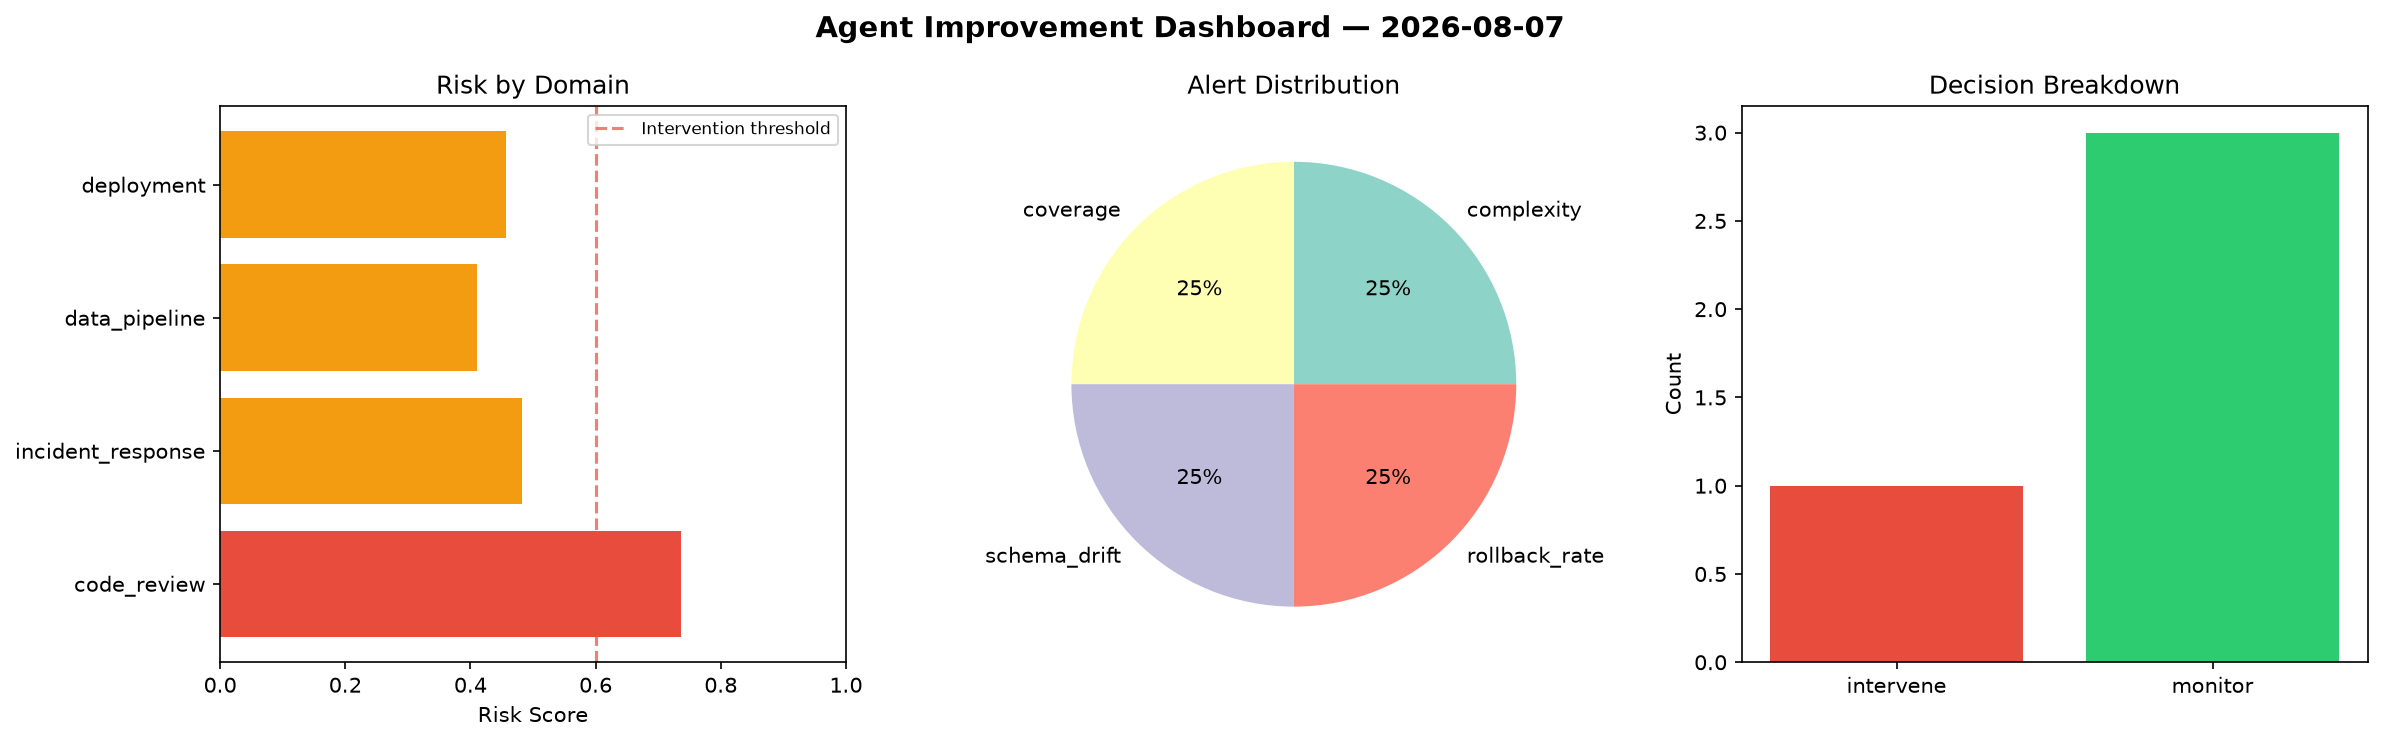
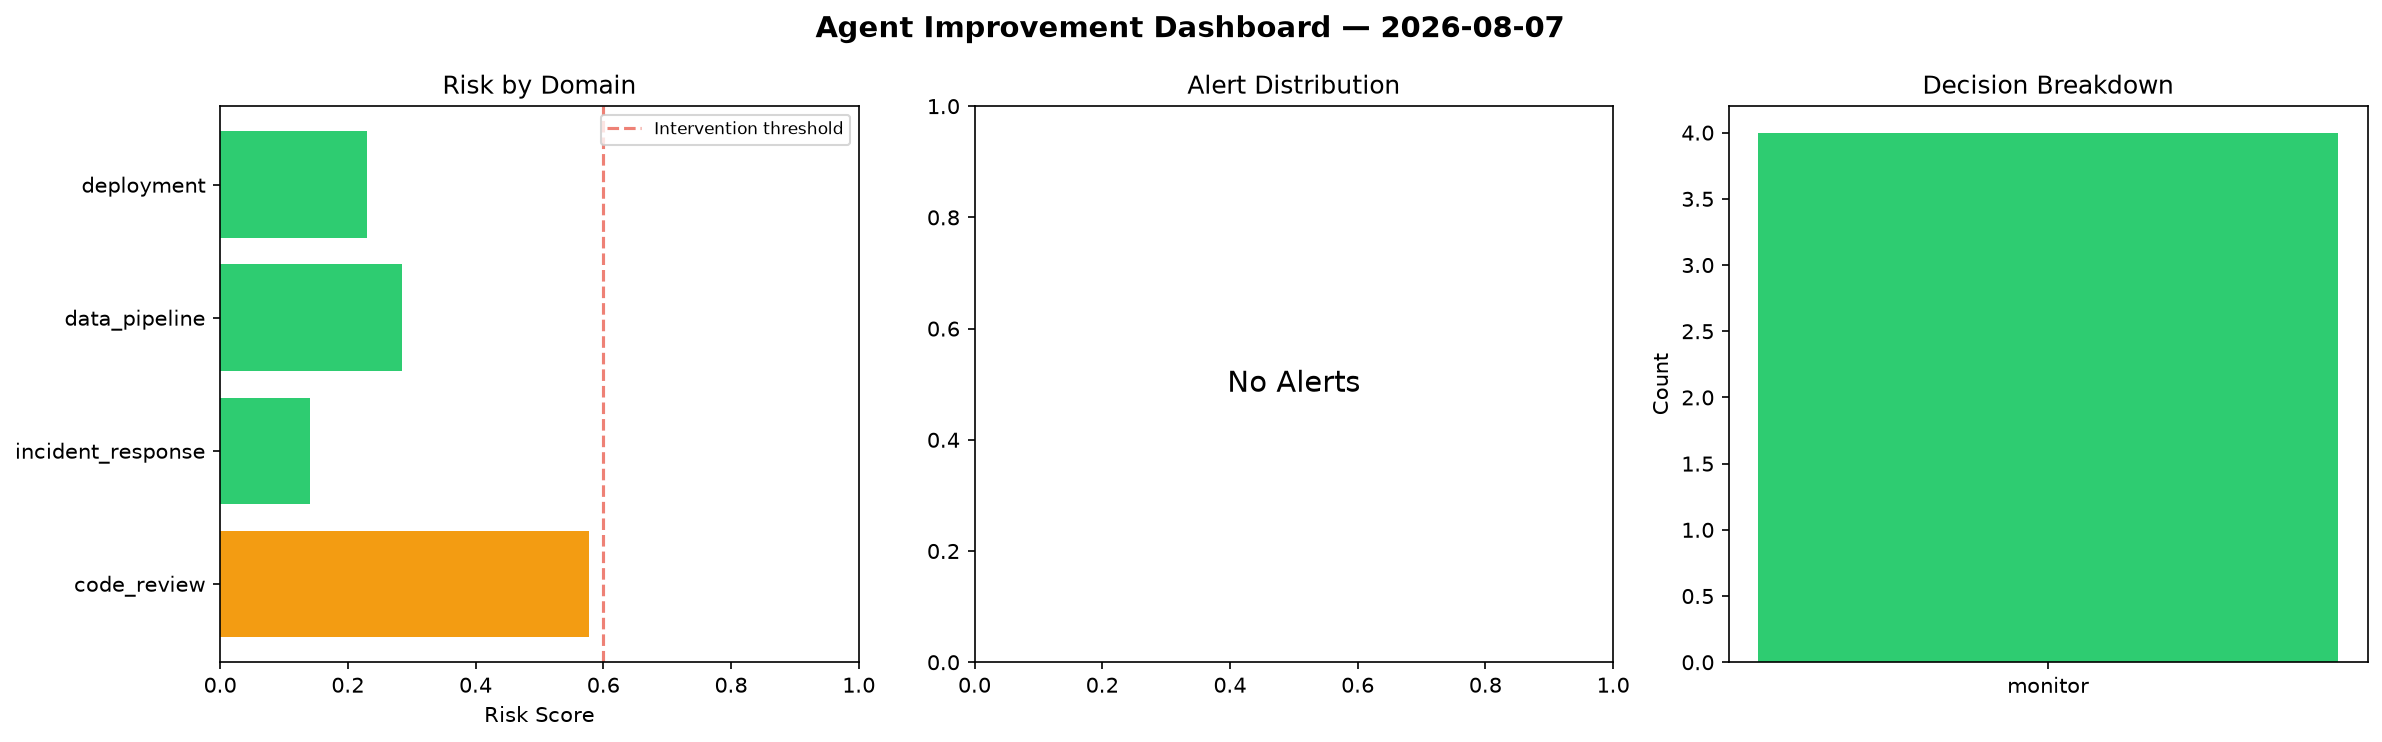
agent-improvement: daily cycle 2026-08-07T04:31

diff --git a/logs/2026-08-07.md b/logs/2026-08-07.md
@@ -1,6 +1,6 @@
 # Agent Improvement Report — 2026-08-07
 
-**Cycle ID:** `1b770a73` | **Avg Risk:** 0.5212 | **Interventions:** 1/4
+**Cycle ID:** `46667974` | **Avg Risk:** 0.3084 | **Interventions:** 0/4
 
 ![Dashboard](2026-08-07_dashboard.png)
 
@@ -10,18 +10,18 @@
 
 | Domain | Risk Score | Decision | Alerts |
 |--------|-----------|----------|--------|
-| code_review | 0.7364 | intervene | complexity, coverage |
-| incident_response | 0.4818 | monitor | none |
-| data_pipeline | 0.4104 | monitor | schema_drift |
-| deployment | 0.4563 | monitor | rollback_rate |
+| code_review | 0.5782 | monitor | none |
+| incident_response | 0.1409 | monitor | none |
+| data_pipeline | 0.2849 | monitor | none |
+| deployment | 0.2295 | monitor | none |
 
 ## Delta vs Yesterday
 
 | Domain | Today | Yesterday | Change |
 |--------|-------|-----------|--------|
-| code_review | 0.7364 | 0.3114 | 📈 136.5% |
-| incident_response | 0.4818 | 0.6364 | 📉 -24.3% |
-| data_pipeline | 0.4104 | 0.5749 | 📉 -28.6% |
-| deployment | 0.4563 | 0.4017 | 📈 13.6% |
+| code_review | 0.5782 | 0.3114 | 📈 85.7% |
+| incident_response | 0.1409 | 0.6364 | 📉 -77.9% |
+| data_pipeline | 0.2849 | 0.5749 | 📉 -50.4% |
+| deployment | 0.2295 | 0.4017 | 📉 -42.9% |
 
 **Refinement:** `{'adjustment': 'maintain', 'trend': 'improving', 'window': 4}`
